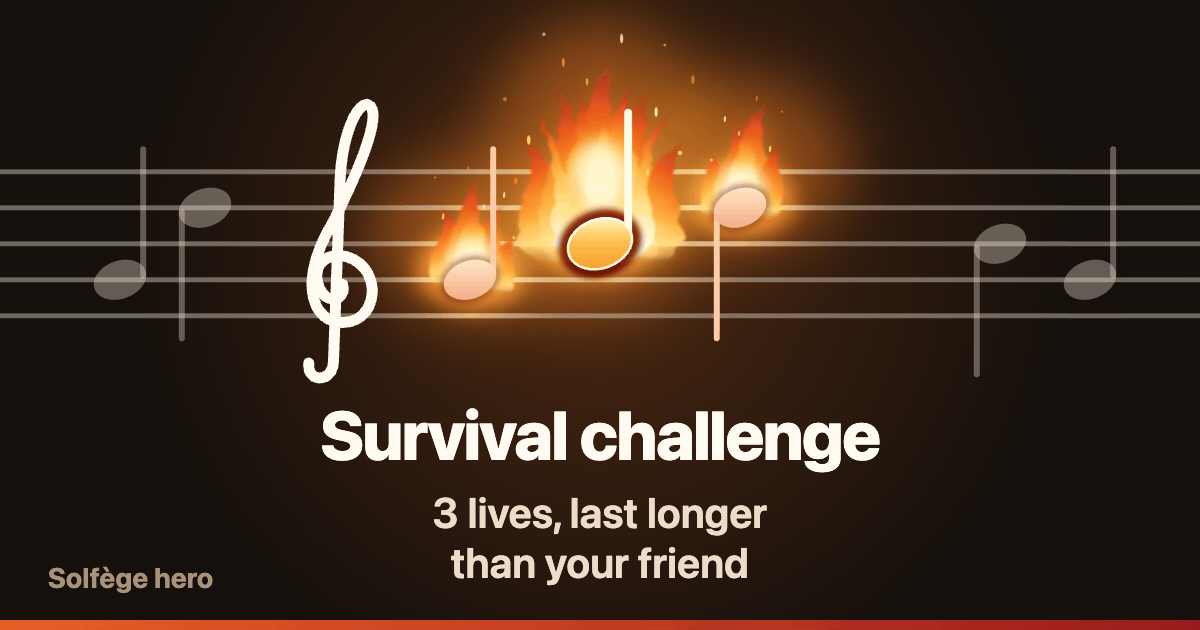
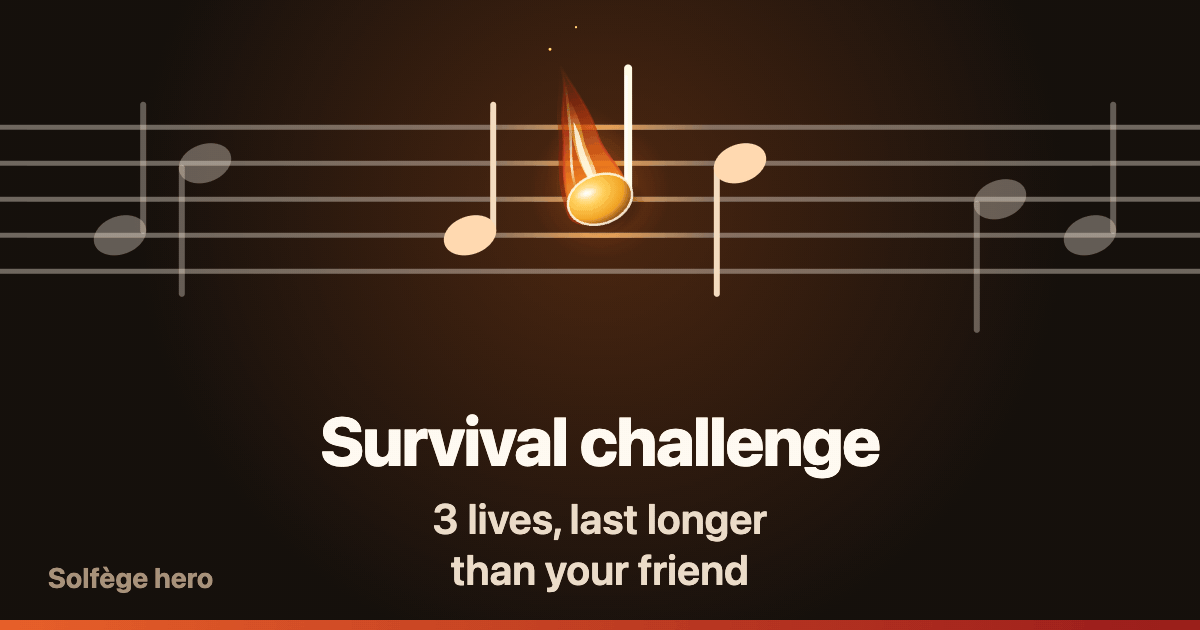
feat: share images with the rising wisp flame
C1 R2 flame on the brand note only (gold relief head, lit stem, staff light,
sparks), plain cream accent notes, no treble clef, staff group recentred.
The drawing lives in src/brand/art.ts, shared with the upcoming icons and logo.

diff --git a/src/brand/art.ts b/src/brand/art.ts
@@ -1,0 +1,135 @@
+export type Relief = 1 | 2
+
+export interface ReliefParams {
+  back: number
+  darkRim: number
+  lightEdge: number
+  streak: number
+  core: number
+  hot: number
+  shadow: number
+  bevel: number
+  spec: number
+  fill: number
+  stemEdge: number
+}
+
+export const RELIEF: Record<Relief, ReliefParams> = {
+  1: { back: 0.45, darkRim: 0.55, lightEdge: 0.35, streak: 0.5, core: 0.8, hot: 0, shadow: 0.35, bevel: 0.28, spec: 0.55, fill: 1, stemEdge: 0.5 },
+  2: { back: 0.75, darkRim: 0.85, lightEdge: 0.15, streak: 0.85, core: 1, hot: 0.85, shadow: 0.55, bevel: 0.5, spec: 0.9, fill: 1, stemEdge: 0.9 },
+}
+
+export const WISP = 'M28 4C33 -22 14 -40 13 -64C12 -90 2 -110 -6 -138C-4 -114 -17 -98 -19 -76C-22 -52 -34 -32 -30 4C-30 26 28 26 28 4Z'
+export const CORE = 'M1 -8C7 -30 -3 -48 -1 -68C0 -82 -3 -94 -6 -106C-10 -88 -12 -76 -12 -60C-12 -38 -8 -22 1 -8Z'
+export const HOT = 'M-2 -12C2 -30 -5 -44 -4 -60C-4 -68 -5 -74 -7 -82C-9 -70 -10 -62 -10 -52C-10 -36 -7 -24 -2 -12Z'
+export const STREAK = 'M-21 -16C-22 -42 -13 -62 -11 -82C-9 -98 -6 -110 -6 -124'
+export const CLEF = [
+  'M58 152 C58 162 46 162 47 153',
+  'M58 152 L61 70 C62 52 68 38 73 38 C80 40 72 62 58 90 C42 116 48 135 62 135 C77 135 80 114 67 107 C55 101 46 111 53 122 C57 127 64 124 62 118',
+]
+
+export const BRAND_HEAD_RX = 33
+export const BRAND_HEAD_RY = 24.5
+export const NOTE_TILT = -20
+
+export interface BrandColors {
+  gold: [string, string, string]
+  stemLit: string
+}
+
+export const DARK_COLORS: BrandColors = { gold: ['#fff3c4', '#ffc24a', '#f0a020'], stemLit: '#fffbe6' }
+
+type Stop = [offset: number, color: string, opacity?: number]
+
+const stops = (list: Stop[]) => list.map(([offset, color, opacity = 1]) => `<stop offset="${offset}" style="stop-color:${color}" stop-opacity="${opacity}"/>`).join('')
+
+export const brandDefs = (prefix: string, { gold }: Pick<BrandColors, 'gold'> = DARK_COLORS) => `<defs>
+  <radialGradient id="${prefix}-glow">${stops([[0, '#ffb04a', 0.8], [0.45, '#f97316', 0.35], [1, '#f97316', 0]])}</radialGradient>
+  <radialGradient id="${prefix}-wglow" cx="0.5" cy="0.62" r="0.5">${stops([[0, '#ff8a1f', 0.9], [1, '#f97316', 0]])}</radialGradient>
+  <linearGradient id="${prefix}-back" x1="0" y1="1" x2="0" y2="0">${stops([[0, '#c2410c', 0.9], [0.5, '#8a1c08', 0.6], [1, '#5a0f04', 0]])}</linearGradient>
+  <linearGradient id="${prefix}-fill" x1="0" y1="1" x2="0" y2="0">${stops([[0, '#ffc24a', 0.95], [0.3, '#ff8a1f', 0.8], [0.7, '#e0400f', 0.38], [1, '#b91c1c', 0]])}</linearGradient>
+  <linearGradient id="${prefix}-edge" x1="0" y1="1" x2="0" y2="0">${stops([[0, '#ffd36b'], [0.55, '#ffb35a', 0.85], [1, '#ff8a1f', 0.15]])}</linearGradient>
+  <linearGradient id="${prefix}-rim" x1="0" y1="1" x2="0" y2="0">${stops([[0, '#ffb35a'], [0.35, '#d9480f', 0.9], [0.8, '#8a1c08', 0.4], [1, '#8a1c08', 0]])}</linearGradient>
+  <linearGradient id="${prefix}-core" x1="0" y1="1" x2="0" y2="0">${stops([[0, '#fffbe6', 0.95], [0.55, '#ffd36b', 0.55], [1, '#ffd36b', 0]])}</linearGradient>
+  <linearGradient id="${prefix}-streak" x1="0" y1="1" x2="0" y2="0">${stops([[0, '#fffbe6', 0], [0.2, '#fffbe6'], [1, '#ffe7a8', 0]])}</linearGradient>
+  <linearGradient id="${prefix}-gold" x1="0" y1="0" x2="0" y2="1">${stops([[0, gold[0]], [0.45, gold[1]], [1, gold[2]]])}</linearGradient>
+  <radialGradient id="${prefix}-hfill" cx="0.36" cy="0.3" r="0.78">${stops([[0, '#fff8dc'], [0.32, '#ffcf5a'], [0.72, '#f0a020'], [1, '#b06508']])}</radialGradient>
+  <radialGradient id="${prefix}-bevel" cx="0.42" cy="0.36" r="0.66">${stops([[0.72, '#5a2a00', 0], [1, '#5a2a00', 1]])}</radialGradient>
+  <radialGradient id="${prefix}-spec">${stops([[0, '#ffffff'], [1, '#ffffff', 0]])}</radialGradient>
+  <radialGradient id="${prefix}-shadow">${stops([[0, '#000000'], [0.6, '#000000', 0.5], [1, '#000000', 0]])}</radialGradient>
+  <radialGradient id="${prefix}-spark">${stops([[0, '#fff3c4'], [0.5, '#ffd36b'], [1, '#ff8a1f', 0]])}</radialGradient>
+</defs>`
+
+export interface WispOptions {
+  tilt?: number
+  height?: number
+  glow?: number
+}
+
+export const flameWisp = (prefix: string, relief: Relief, { tilt = -14, height = 1, glow = 1 }: WispOptions = {}) => {
+  const params = RELIEF[relief]
+  return `<ellipse cx="0" cy="-40" rx="46" ry="74" transform="rotate(${tilt})" fill="url(#${prefix}-wglow)" opacity="${(0.24 * glow).toFixed(3)}"/>
+  <g transform="rotate(${tilt}) scale(1 ${height})">
+    <path d="${WISP}" transform="translate(-3 2) scale(1.08)" fill="url(#${prefix}-back)" opacity="${params.back}"/>
+    <path d="${WISP}" fill="url(#${prefix}-fill)"/>
+    <path class="core" d="${CORE}" fill="url(#${prefix}-core)" opacity="${params.core}"/>
+    <path d="${HOT}" fill="#fffbe6" opacity="${params.hot}"/>
+    <path d="${STREAK}" fill="none" stroke="url(#${prefix}-streak)" stroke-width="2.6" stroke-linecap="round" opacity="${params.streak}"/>
+    <path d="${WISP}" fill="none" stroke="url(#${prefix}-edge)" stroke-width="2.2" stroke-linejoin="round" opacity="${params.lightEdge}"/>
+    <path d="${WISP}" fill="none" stroke="url(#${prefix}-rim)" stroke-width="2.6" stroke-linejoin="round" opacity="${params.darkRim}"/>
+  </g>`
+}
+
+export interface HeadOptions {
+  rx: number
+  ry: number
+  tilt?: number
+}
+
+export interface GoldHeadOptions extends HeadOptions {
+  rim?: string
+  rimWidth: number
+}
+
+export const goldHead = (prefix: string, relief: Relief, { rx, ry, tilt = NOTE_TILT, rim = DARK_COLORS.stemLit, rimWidth }: GoldHeadOptions) => {
+  const params = RELIEF[relief]
+  return `<g transform="rotate(${tilt})">
+  <ellipse rx="${rx}" ry="${ry}" fill="url(#${prefix}-gold)"/>
+  <ellipse rx="${rx}" ry="${ry}" fill="url(#${prefix}-hfill)" opacity="${params.fill}"/>
+  <ellipse rx="${rx}" ry="${ry}" fill="url(#${prefix}-bevel)" opacity="${params.bevel}"/>
+  <ellipse cx="${-rx * 0.34}" cy="${-ry * 0.42}" rx="${rx * 0.36}" ry="${ry * 0.2}" fill="url(#${prefix}-spec)" opacity="${params.spec}"/>
+  <ellipse rx="${rx}" ry="${ry}" fill="none" stroke="${rim}" stroke-width="${rimWidth}" opacity="0.85"/>
+</g>`
+}
+
+export const headShadow = (prefix: string, relief: Relief, { rx, ry, tilt = NOTE_TILT }: HeadOptions) =>
+  `<ellipse cx="${rx * 0.16}" cy="${ry * 0.42}" rx="${rx * 1.18}" ry="${ry * 1.12}" transform="rotate(${tilt})" fill="url(#${prefix}-shadow)" opacity="${RELIEF[relief].shadow}"/>`
+
+export interface LitStemOptions {
+  x: number
+  y1: number
+  y2: number
+  width: number
+  color?: string
+}
+
+export const litStem = (relief: Relief, { x, y1, y2, width, color = DARK_COLORS.stemLit }: LitStemOptions) =>
+  `<path d="M${x} ${y1}V${y2}" stroke="${color}" stroke-width="${width}" stroke-linecap="round"/>
+  <path d="M${x - width * 0.22} ${Math.min(y1, y2) + width}V${Math.max(y1, y2) - width}" stroke="#ffffff" stroke-width="${width * 0.3}" stroke-linecap="round" opacity="${RELIEF[relief].stemEdge}"/>`
+
+export type SparkDot = [x: number, y: number, radius: number]
+
+export const sparkDots = (prefix: string, scale: number, dots: SparkDot[]) =>
+  dots.map(([x, y, radius]) => `<circle cx="${x * scale}" cy="${y * scale}" r="${radius}" fill="url(#${prefix}-spark)"/>`).join('')
+
+export interface LitStaffOptions {
+  x: number
+  reach: number
+  lines: number[]
+  width: number
+  opacity: number
+}
+
+export const litStaff = (prefix: string, { x, reach, lines, width, opacity }: LitStaffOptions) =>
+  `<linearGradient id="${prefix}-lit" gradientUnits="userSpaceOnUse" x1="${x - reach}" y1="0" x2="${x + reach}" y2="0">${stops([[0, '#ffb35a', 0], [0.5, '#ffb35a'], [1, '#ffb35a', 0]])}</linearGradient>
+  <g stroke="url(#${prefix}-lit)" stroke-width="${width}" stroke-linecap="round" opacity="${opacity}">${lines.map((y) => `<path d="M${x - reach} ${y}H${x + reach}"/>`).join('')}</g>`
